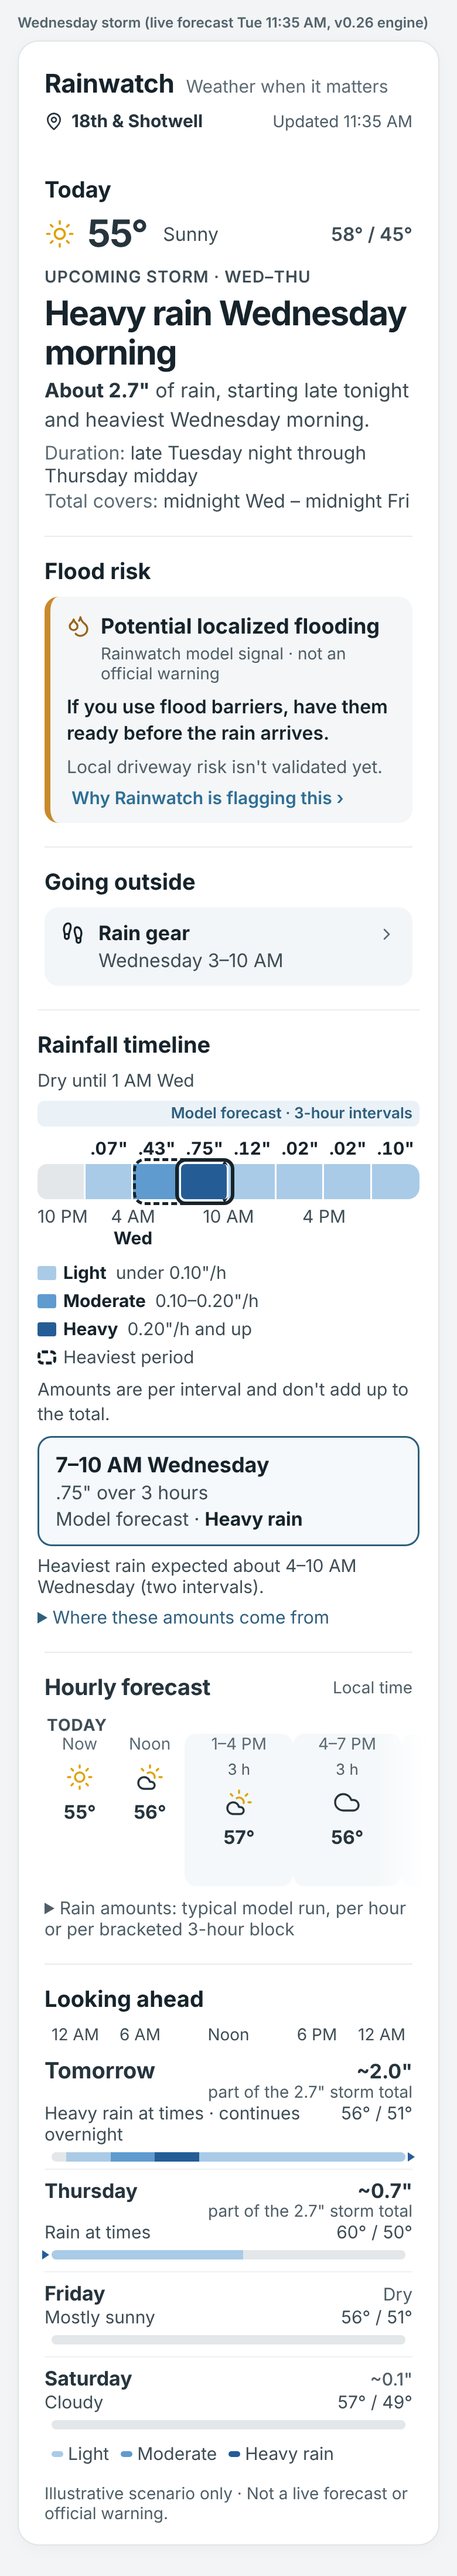
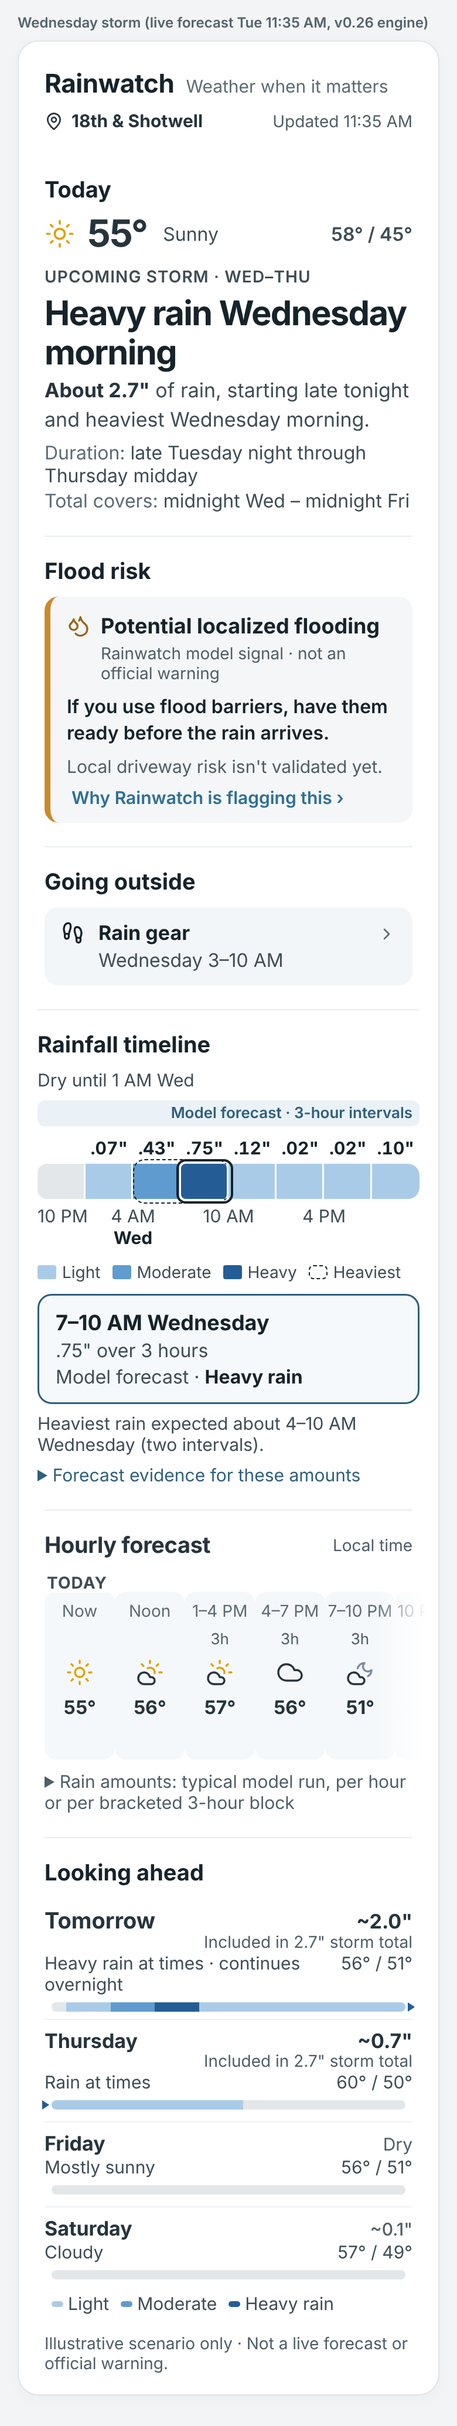
Option B refinement: distinct outlines, decluttered timeline, unified hourly tiles, Looking ahead labels
- Selection: 2px solid outline; heaviest period: 1px dashed
- Timeline order: heading/sources, chart, single-row legend, detail, one heaviest note,
  conditional overlap note, evidence (not-the-total note moved into it); radar line removed
- Overlap segment hatched, non-selectable, explained once
- Hourly: one tile treatment, 3h label for model blocks
- Looking ahead: shared axis removed; 'Included in X" storm total'
No forecast logic change.

Claude-Session: https://claude.ai/code/session_01DGZCEbHLV5VJSPz5Ug97vc

diff --git a/card/src/components/WeatherCard.tsx b/card/src/components/WeatherCard.tsx
@@ -93,7 +93,6 @@ function RainfallTimeline({ s, t, initial }: { s: Scenario; t: TodayT; initial?:
   const sel = eligible.find(b => b.start === selAt) ?? null, det = sel ? intervalDetail(s, sel) : null;
   const n = t.to - t.from, x = (h: number) => `${((h - t.from) / n) * 100}%`, w = (a: number, b: number) => `${((b - a) / n) * 100}%`;
   const label = (b: TodayT['bars'][number]) => b.kind === 'rain' && b.src !== 'radar' && b.coversFrom === null && b.end - b.start >= 2;
-  const radar = t.bars.filter(b => b.src === 'radar' && b.start >= t.now);
   const over = t.bars.find(b => b.coversFrom !== null && b.kind === 'rain');
   const bands = t.sources.filter((q, i) => i === 0 || q.src !== t.sources[i - 1].src)
     .map((q, i, arr) => ({ ...q, end: (arr[i + 1]?.start ?? t.to) }));
@@ -103,7 +102,6 @@ function RainfallTimeline({ s, t, initial }: { s: Scenario; t: TodayT; initial?:
   return <section className="today-rain" aria-labelledby="timeline-h">
     <h2 className="section-title" id="timeline-h">Rainfall timeline</h2>
     {t.dryUntil !== null && <p className="today-dry">Dry until {hourText(s, t.dryUntil)}</p>}
-    {radar.some(b => b.kind !== 'dry') && <p className="today-radar">Radar, hour by hour: {radar.map(b => `${barAmount(b) || 'dry'} (${clockRange(s, b.start, b.end)})`).join(', then ')}</p>}
     <div className="today-chart">
       <div className="today-bands" aria-hidden>{bands.map(q => <span key={q.start} className={`band band-${q.src}`} style={{ left: x(q.start), width: w(q.start, q.end) }}>
         {q.src === 'radar' ? 'Radar' : q.src === 'nws' ? 'NWS 6-hour totals' : 'Model forecast · 3-hour intervals'}</span>)}</div>
@@ -113,7 +111,7 @@ function RainfallTimeline({ s, t, initial }: { s: Scenario; t: TodayT; initial?:
         onKeyDown={e => { if (e.key === 'ArrowRight' || e.key === 'ArrowDown') { e.preventDefault(); move(1); } if (e.key === 'ArrowLeft' || e.key === 'ArrowUp') { e.preventDefault(); move(-1); } }}>
         {t.bars.map(b => {
           const ok = eligible.includes(b), on = sel === b, d = ok ? intervalDetail(s, b) : null;
-          const cls = `today-bar bar-${b.kind}${b.intensity ? ` i${b.intensity}` : ''} src-${b.src}${on ? ' sel' : ''}`;
+          const cls = `today-bar bar-${b.kind}${b.intensity ? ` i${b.intensity}` : ''} src-${b.src}${on ? ' sel' : ''}${b.coversFrom !== null ? ' over' : ''}`;
           const style = { left: x(b.start), width: w(b.start, b.end) };
           return ok ? <button type="button" key={b.start} role="radio" aria-checked={on} tabIndex={on ? 0 : -1} className={cls}
               data-from={b.start} data-to={b.end} data-res={b.res} data-in={b.in} style={style} onClick={() => setSel(b.start)}
@@ -126,15 +124,16 @@ function RainfallTimeline({ s, t, initial }: { s: Scenario; t: TodayT; initial?:
       </div>
       <div className="today-axis" aria-hidden>{t.ticks.map((k, i) => <span key={k.at} className={i === 0 ? 'first' : ''} style={{ left: x(k.at) }}>{k.text}{k.day && <b>{k.day}</b>}</span>)}</div>
     </div>
-    {over && <p className="today-overlap">The {barAmount(over)} model amount is for {clockRange(s, over.coversFrom!, over.end)}, overlapping the radar hours. It is a separate estimate, not added to them.</p>}
     <div className="today-legend" aria-label="Intensity">{INTENSITY_LEGEND.filter(l => lvls.has(l.level)).map(l =>
-      <span key={l.level}><i className={`sw i${l.level}`} /><b>{l.name}</b> {l.range}</span>)}
-      {t.heavy && <span><i className="sw-heavy" />Heaviest period</span>}</div>
-    <p className="today-note">Amounts are per interval and don't add up to the total.</p>
+      <span key={l.level} title={l.range}><i className={`sw i${l.level}`} />{l.name}</span>)}
+      {t.heavy && <span><i className="sw-heavy" />Heaviest</span>}{over && <span><i className="sw-over" />Overlap</span>}</div>
     {det && <div className="interval-card" aria-live="polite">
       <strong>{det.title}</strong><span>{det.amount}</span><span>{det.source} · <b>{det.intensity}</b></span></div>}
     {note && <p className="heaviest-note">{note}</p>}
-    <details className="today-about"><summary>Where these amounts come from</summary><p>{sourcesCaption(t)}</p>
+    {over && <p className="today-overlap" id="overlap-note">The {barAmount(over)} model amount is for {clockRange(s, over.coversFrom!, over.end)}, overlapping the radar hours. It is a separate estimate, not added to them.</p>}
+    <details className="today-about"><summary>Forecast evidence for these amounts</summary><p>{sourcesCaption(t)}</p>
+      <p>Intensity: {INTENSITY_LEGEND.map(l => `${l.name} ${l.range}`).join(' · ')}.</p>
+      <p>Amounts are per interval and don't add up to the total.</p>
       {rec && <p className="today-total-note">The interval amounts are not the storm total. {rec.exact ? 'The intervals' : 'The intervals fully inside the storm window'} add up to {fmtAmount(rec.blocksIn)} from {rec.from} through {rec.to};
         the storm total above is {tenths(rec.totalIn)}" for the same hours.{rec.blocksIn < rec.totalIn - 0.05 ? ' The difference is real, not rounding: each interval shows a typical model run for those hours alone, and the runs disagree on timing, so the intervals come out drier than a typical run\'s whole storm. The total is the better guide to how much rain; the intervals show when.' : ''}</p>}</details>
   </section>;
@@ -190,10 +189,10 @@ function Hourly({ s }: { s: Scenario }) {
     const l = hourLabel(s, g.at), icon = isUnknown(s, g.at) ? 'unknown' : g.icon, span = g.end - g.at;
     if (i === 0 || l.day) items.push(<em className="hour-pin" aria-hidden key={`pin-${g.at}`}>{i === 0 ? 'Today' : l.day}</em>);
     const top = g.res > 1 ? g.label : l.text;
-    items.push(<div className={`hour${span > 1 ? ' hour-block' : ''}${l.day && i > 0 ? ' hour-midnight' : ''}`} role="listitem" key={g.at}
+    items.push(<div className={`hour hour-tile${span > 1 ? ' hour-3h' : ''}${l.day && i > 0 ? ' hour-midnight' : ''}`} role="listitem" key={g.at}
       data-from={g.at} data-to={g.end} data-res={g.res}
       aria-label={`${top}${g.res > 1 ? ` (${g.res}-hour interval${g.overlaps ? ', overlaps radar hours' : ''})` : ''}, ${deg(g.temp)}${g.amount ? `, rain ${g.amount}` : ''}`}>
-      <span>{top}</span>{g.res > 1 && <small className="hour-res">{g.res} h{g.overlaps ? ', overlaps radar' : ''}</small>}
+      <span>{top}</span><small className="hour-res" aria-hidden>{g.res > 1 ? `${g.res}h` : '\u00a0'}</small>
       <WeatherIcon name={icon} size={24} label /><strong>{deg(g.temp)}</strong>
       <em className={`amt amt-${g.amount ? 'rain' : 'dry'}`}>{g.amount}</em>
     </div>);
@@ -222,7 +221,6 @@ const dayAmount = (d: Scenario['days'][number]) => {
 };
 
 const pct = (L: number) => `${(L / 24) * 100}%`;
-const AXIS: [number, string][] = [[0, '12 AM'], [6, '6 AM'], [12, 'Noon'], [18, '6 PM'], [24, '12 AM']];
 
 /** One day's strip: local midnight to midnight on the shared axis (a continuous track; the axis above is the reference). Rain shows how hard it typically falls
  *  (light, moderate, heavy), not the gear rung; dry is one flat neutral; no forecast is hatched; today before now is empty. */
@@ -242,7 +240,6 @@ function Strip({ r }: { r: FiveDayRow }) {
 function FiveDays({ s, rows }: { s: Scenario; rows: FiveDayRow[] }) {
   const gap = rows.some(r => r.segs.some(g => g.kind === 'unknown')), wet = rows.some(r => r.segs.some(g => g.kind === 'rain')), note = stripCoverageNote(s);
   return <div className="five-days">
-    <div className="strip-axis" aria-hidden>{AXIS.map(([L, t]) => <span key={L} data-at={L} style={{ left: pct(L) }}>{t}</span>)}</div>
     <ol className="five-rows">{rows.map((r, k) => k === 0 && r.label === 'Today' ? null : <li className={`five-row${k === 1 ? ' five-row-next' : ''}`} key={r.label} id={`five-day-${k}`} tabIndex={-1}>
       <div className="five-top"><strong>{r.label}</strong><span className={`total total-${r.total.kind}`}>{r.total.text}</span></div>
       {r.total.kind === 'amount' && dayInStormTotal(s, k) && <p className="in-storm-total">{dayInStormTotal(s, k)}</p>}

diff --git a/card/src/lib/option-b.test.ts b/card/src/lib/option-b.test.ts
@@ -6,9 +6,10 @@ import { renderToString } from 'react-dom/server';
 import { WeatherCard } from '../components/WeatherCard';
 import type { Scenario } from '../types';
 import { stormWed, stormWedNight } from './cases';
+import { tenths } from './derive';
 import { eligibleBars, hourTiles, initialSelection, intervalDetail, stormTotalWindow, todayTimeline } from './today';
 
-const html = (s: Scenario, selected?: number) => renderToString(createElement(WeatherCard, { scenario: s, selected })).replace(/<!-- -->/g, '').replace(/&quot;/g, '"');
+const html = (s: Scenario, selected?: number) => renderToString(createElement(WeatherCard, { scenario: s, selected })).replace(/<!-- -->/g, '').replace(/&quot;/g, '"').replace(/&#x27;/g, "'");
 const bars = (h: string) => [...h.matchAll(/class="today-bar[^"]*"[^>]*?data-from="(\d+)" data-to="(\d+)" data-res="(\d+)" data-in="([\d.]+)" style="left:([\d.]+)%;width:([\d.]+)%"/g)]
   .map(m => ({ from: +m[1], to: +m[2], res: +m[3], in: +m[4], left: +m[5], width: +m[6] }));
 const CASES = [['Tue 11:35 AM', stormWed], ['Wed 12:51 AM (overlap)', stormWedNight]] as const;
@@ -66,5 +67,48 @@ describe('Option B acceptance gate', () => {
   it('a chosen model interval renders its own detail (deterministic selection)', () => {
     const s = stormWed(), h = html(s, 20);
     expect(h).toContain('<strong>7–10 AM Wednesday</strong><span>.75" over 3 hours</span>');
+  });
+});
+
+describe('PR #12 final refinement', () => {
+  const css = require('fs').readFileSync(require('path').join(__dirname, '../styles.css'), 'utf8') as string;
+  it('selection and heaviest-period outlines are distinct (2px solid vs 1px dashed)', () => {
+    const last = (sel: string) => [...css.matchAll(new RegExp(`${sel.replace(/\./g, '\\.')}\\{([^}]*)\\}`, 'g'))].pop()![1];
+    expect(last('.today-plot .today-bar.sel')).toMatch(/outline:2px solid/);
+    expect(last('.today-heavy')).toMatch(/border:1px dashed/);
+    const h = html(stormWed());
+    expect(h.match(/class="today-bar[^"]* sel/g)).toHaveLength(1);
+    expect(h.match(/class="today-heavy"/g)).toHaveLength(1);
+  });
+  it('timeline order: heading, chart, legend, detail, heaviest note, overlap note, evidence', () => {
+    const h = html(stormWedNight()), at = (x: string) => h.indexOf(x);
+    const order = ['id="timeline-h"', 'class="today-chart"', 'class="today-legend"', 'class="interval-card"', 'class="heaviest-note"', 'id="overlap-note"', 'class="today-about"'].map(at);
+    expect(order.every(i => i > 0)).toBe(true);
+    expect([...order].sort((a, b) => a - b)).toEqual(order);
+    expect(h).not.toContain('class="today-note"');                 // the not-the-total line lives in the evidence now
+    expect(h.slice(at('class="today-about"'))).toContain("Amounts are per interval and don't add up to the total.");
+    expect(h.match(/Heaviest rain expected/g)).toHaveLength(1);
+  });
+  it('the overlap explanation appears exactly once; the shortened bar is distinct and not selectable', () => {
+    const h = html(stormWedNight());
+    expect(h.match(/overlapping the radar hours/g)).toHaveLength(1);
+    expect(h).toMatch(/<span class="today-bar bar-rain i1 src-model over" data-from="2" data-to="4"[^>]*aria-hidden="true"/);
+  });
+  it('flood guidance stays above Going outside when elevated', () => {
+    for (const s of [stormWed(), stormWedNight()]) { const h = html(s); expect(h.indexOf('id="flood-h"')).toBeLessThan(h.indexOf('id="outside-h"')); }
+  });
+  it('Going outside keeps the existing supported windows', () => {
+    expect(html(stormWedNight())).toContain('<strong>Rain gear</strong><span>5 AM–1 PM today</span>');
+    expect(html(stormWed())).toContain('<strong>Rain gear</strong><span>Wednesday 3–10 AM</span>');
+  });
+  it('Looking ahead: relative day labels from the forecast timestamp; storm-total inclusion', () => {
+    const DAYS = ['Sunday', 'Monday', 'Tuesday', 'Wednesday', 'Thursday', 'Friday', 'Saturday'], SHORT = ['Sun', 'Mon', 'Tue', 'Wed', 'Thu', 'Fri', 'Sat'];
+    for (const s of [stormWed(), stormWedNight()]) {
+      const h = html(s), d0 = SHORT.indexOf(s.startDay);
+      for (const m of h.matchAll(/id="five-day-(\d)"[^>]*><div class="five-top"><strong>([^<]+)<\/strong>/g)) {
+        const k = +m[1]; expect(m[2]).toBe(k === 1 ? 'Tomorrow' : DAYS[(d0 + k) % 7]);
+      }
+      expect(h).toContain(`Included in ${tenths(stormTotalWindow(s)!.inches)}" storm total`);
+    }
   });
 });

diff --git a/card/src/styles.css b/card/src/styles.css
@@ -302,3 +302,17 @@ details.todo-row[open] .todo-chev{transform:rotate(90deg)}
 /* a narrow radar band (about 2 h of ~25 h) names itself over the model band's empty left edge, never clipped */
 .today-bands .band-radar{z-index:2;overflow:visible;min-width:0}
 .today-bands .band-model,.today-bands .band-nws{z-index:1}
+
+/* PR #12 final refinement */
+.today-plot .today-bar.sel{outline:2px solid #16232b;outline-offset:2px}
+.today-heavy{border:1px dashed #16232b;top:-4px;bottom:-4px}
+.sw-heavy{border-width:1px;border-style:dashed}
+.today-plot .today-bar.over{background-image:repeating-linear-gradient(135deg,rgba(255,255,255,.75) 0 3px,transparent 3px 7px)}
+.sw-over{width:16px;height:12px;border-radius:2px;display:inline-block;background:var(--i1) repeating-linear-gradient(135deg,rgba(255,255,255,.75) 0 3px,transparent 3px 7px)}
+.today-legend{flex-wrap:nowrap;gap:10px;font-size:14px;overflow-x:auto}
+.today-legend span{font-size:14px;white-space:nowrap;gap:5px}
+.interval-card{margin-top:2px}
+.hour.hour-tile{background:#f5f8fa;border-radius:10px;padding:8px 2px;flex-basis:calc(100% / 5.25)}
+.hour.hour-3h{flex-basis:calc(100% / 5.25)}
+.hour .hour-res{display:block;font-size:13px;line-height:16px;color:#4f5e67;margin:0}
+.weather-card .strip-axis{display:none}

diff --git a/card/src/lib/fiveday.test.ts b/card/src/lib/fiveday.test.ts
@@ -64,8 +64,8 @@ describe('shared axis', () => {
     const pct = (L: number) => `${(L / 24) * 100}%`;
     for (const s of scenarios) {
       const h = fiveHtml(s);
-      for (const [L, t] of [[0, '12 AM'], [6, '6 AM'], [12, 'Noon'], [18, '6 PM'], [24, '12 AM']] as const)
-        expect(h, s.id).toContain(`data-at="${L}" style="left:${pct(L)}">${t}</span>`);
+      // PR #12 refinement: the shared axis above the rows is removed (redundant); every row still uses hour / 24
+      expect(h, s.id).not.toContain('class="strip-axis"'); void pct;
       for (const m of h.matchAll(/data-from="(\d+)" data-to="(\d+)" style="left:([\d.]+)%;width:([\d.]+)%"/g)) {
         expect(Number(m[3])).toBeCloseTo((Number(m[1]) / 24) * 100, 6);
         expect(Number(m[4])).toBeCloseTo(((Number(m[2]) - Number(m[1])) / 24) * 100, 6);

diff --git a/card/src/lib/today.test.ts b/card/src/lib/today.test.ts
@@ -73,7 +73,7 @@ describe('Today First (PR B): one forecast state', () => {
   });
   it('every scenario renders the Today First headings, in order', () => {
     for (const s of [...FOUR.map(byId), stormWed()]) {
-      const h = html(s), idx = ['Rainwatch', 'Weather when it matters', '>Today<', '>Going outside<', '>Hourly forecast<', '>Looking ahead<', 'Forecast evidence'].map(x => h.indexOf(x));
+      const h = html(s), idx = ['Rainwatch', 'Weather when it matters', '>Today<', '>Going outside<', '>Hourly forecast<', '>Looking ahead<', 'Forecast evidence →'].map(x => h.indexOf(x));
       expect(idx.every(i => i >= 0), s.id).toBe(true);
       expect([...idx].sort((a, b) => a - b), s.id).toEqual(idx);
       expect(h).not.toContain('Scenario lab');

diff --git a/card/src/lib/today.ts b/card/src/lib/today.ts
@@ -237,7 +237,7 @@ export function dayInStormTotal(s: Scenario, dayIndex: number): string | null {
   const w = stormTotalWindow(s);
   if (!w || dayIndex < 1) return null;
   const start = 24 - s.startHourLocal + (dayIndex - 1) * 24, end = start + 24;
-  return start < w.to && w.from < end ? `part of the ${tenths(w.inches)}" storm total` : null;
+  return start < w.to && w.from < end ? `Included in ${tenths(w.inches)}" storm total` : null;
 }
 
 /** Hourly tiles at source resolution: radar/hourly blocks one per hour; model blocks one tile per block (temperature

diff --git a/docs/option-b/VERIFICATION.md b/docs/option-b/VERIFICATION.md
@@ -56,3 +56,14 @@ Window midnight – 1 AM Thu (25 h). Expected width per hour: 4.000%.
 | Headline | eventHero | Heavy rain this morning | pass |
 | Going outside | Rain gear, 5 AM–1 PM today (actionWindow) | Rain gear · 5 AM–1 PM today | pass |
 | Flood guidance | state potential: Potential localized flooding (propertyFlood, unchanged) | Potential localized flooding · Rainwatch model signal · not an official warning · If you use flood barriers, check them now, ahead of the heaviest rain this morning. | pass |
+## Final refinement checks (PR #12, 2026-11-19)
+
+Enforced by `card/src/lib/option-b.test.ts` ("PR #12 final refinement"):
+
+- **Outlines stay distinct.** The selection is a 2px solid outline; the heaviest period is a 1px dashed outline. Exactly one of each is rendered.
+- **Timeline order.** Heading, chart, single-row legend, detail card, one heaviest-period note, the overlap note when present, then the evidence. The "not the total" line now sits inside the evidence.
+- **Overlap.** The explanation appears exactly once. The shortened 1–4 AM model segment is hatched, not selectable and hidden from screen readers; the note carries it for them.
+- **Flood risk.** It stays above Going outside when elevated, on both forecasts.
+- **Going outside.** "Rain gear · Wednesday 3–10 AM" (Tue) and "Rain gear · 5 AM–1 PM today" (Wed 12:51 AM). These are the existing action windows.
+- **Looking ahead.** Relative day labels are correct for the forecast's start day. The "Included in 2.7" storm total" label appears only where a day overlaps the total's window.
+- **Hourly tiles.** Unchanged source resolution: a 3-hour block is one tile marked "3h", and every tile has the same treatment.
